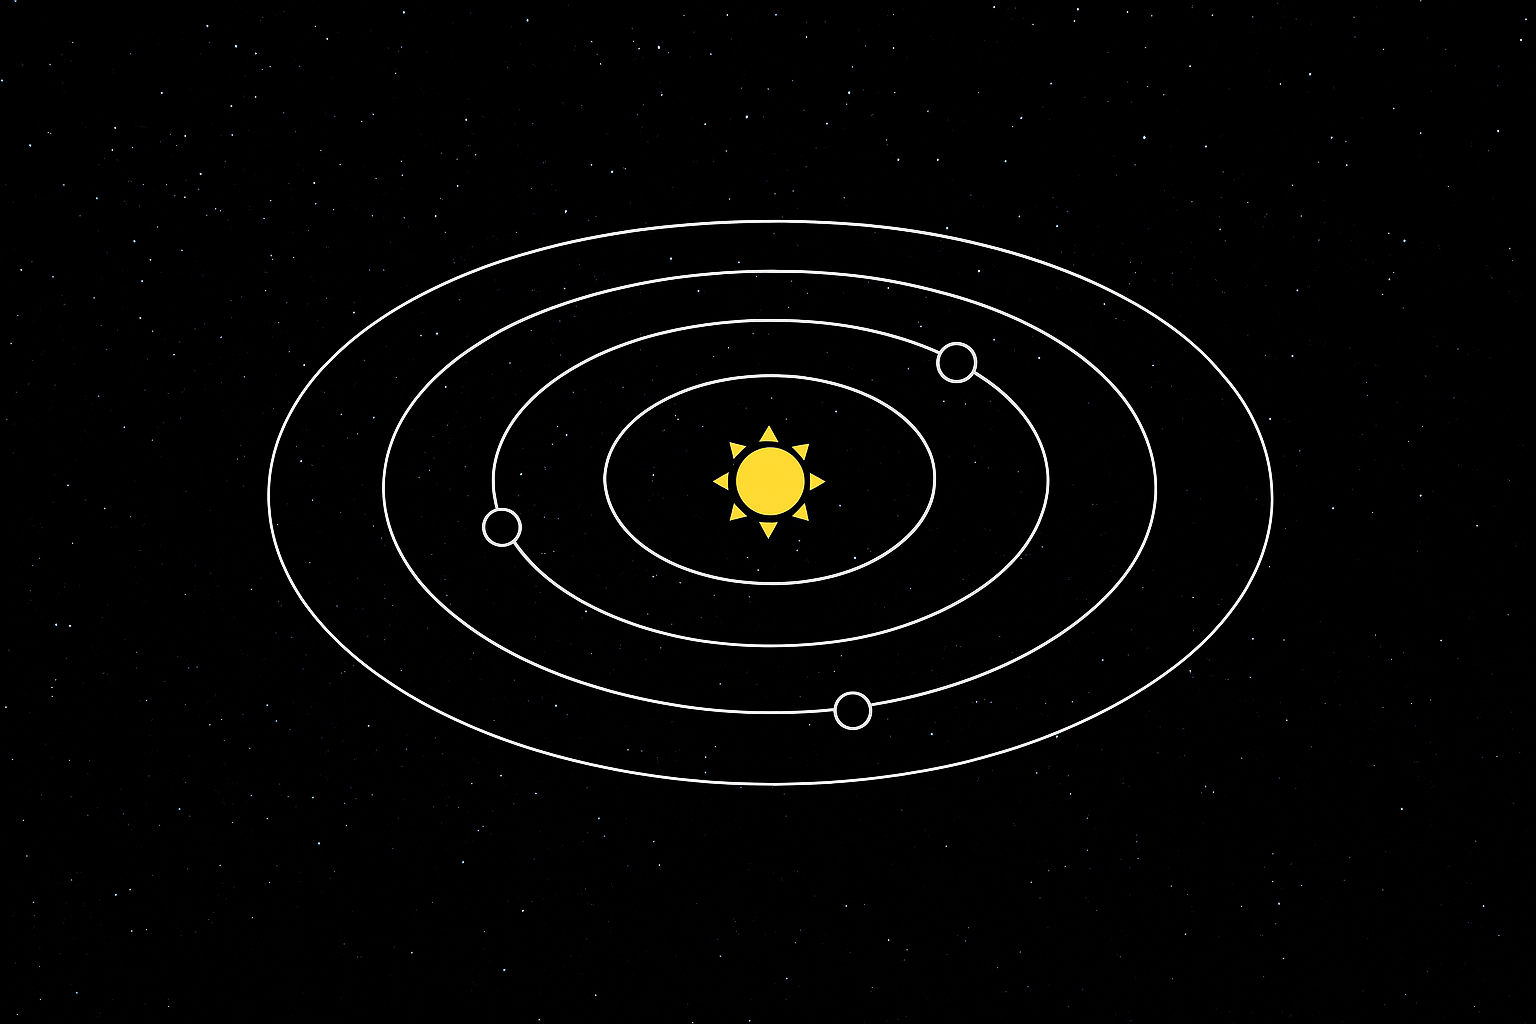
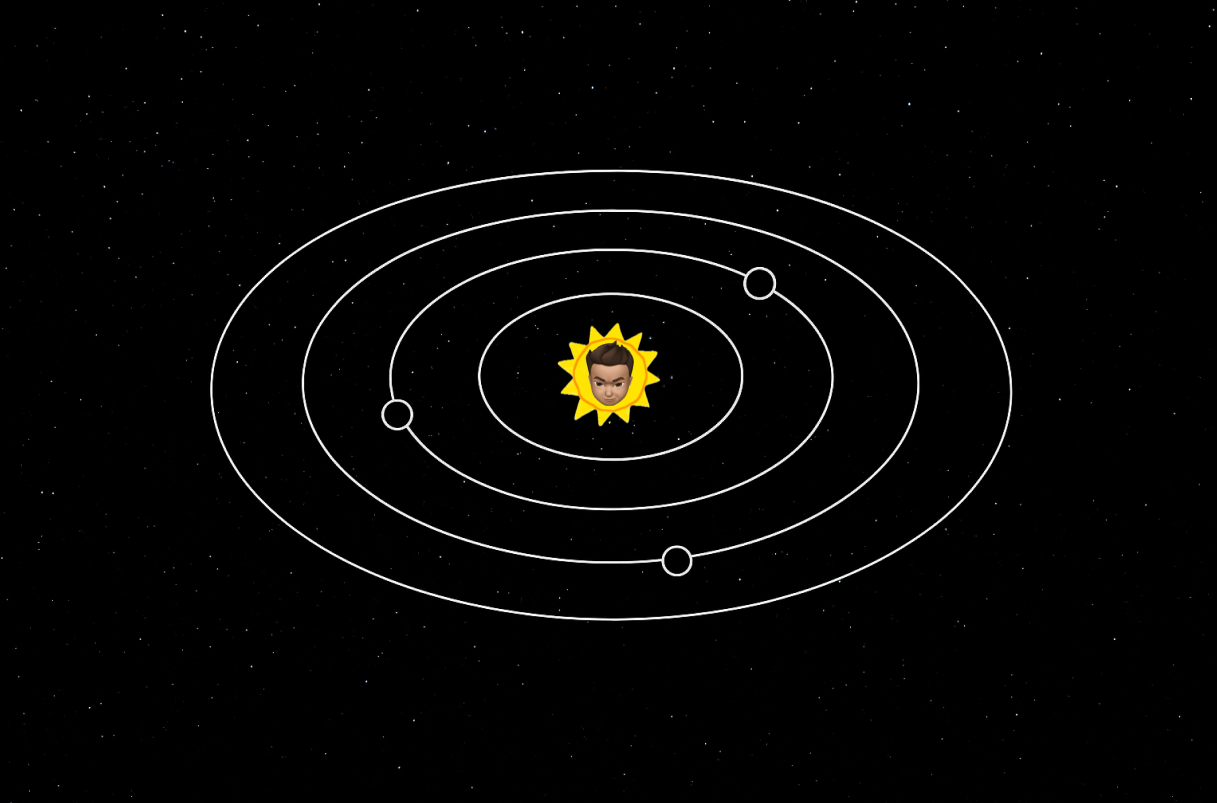
최종 ui 수정

diff --git a/src/utils/api.js b/src/utils/api.js
@@ -1,0 +1,38 @@
+// src/utils/api.js
+
+const API_BASE_URL = 'http://localhost:8080'; // 백엔드 주소
+
+const getAuthToken = () => localStorage.getItem('token');
+
+const apiRequest = async (endpoint, method = 'GET', body = null) => {
+  const token = getAuthToken();
+  const headers = {
+    'Content-Type': 'application/json',
+    ...(token && { Authorization: `Bearer ${token}` }),
+  };
+
+  const config = {
+    method,
+    headers,
+    ...(body && { body: JSON.stringify(body) }),
+  };
+
+  const response = await fetch(`${API_BASE_URL}${endpoint}`, config);
+  if (!response.ok) {
+    const errorData = await response.json().catch(() => ({}));
+    throw new Error(errorData.message || 'API 요청 실패');
+  }
+  return response.json();
+};
+
+// ✅ CRUD + 행성 관련 API
+export const createLetter = (letterData) => apiRequest('/letter', 'POST', letterData);
+export const getLetter = (id) => apiRequest(`/letter/${id}`);
+export const updateLetter = (id, letterData) => apiRequest(`/letter/${id}`, 'PUT', letterData);
+export const deleteLetter = (id) => apiRequest(`/letter/${id}`, 'DELETE');
+
+export const getPlanets = (page = 0, size = 15) =>
+  apiRequest(`/planet/main?page=${page}&size=${size}`);
+
+export const choosePlanet = (letterId, planetUrl) =>
+  apiRequest(`/planet/${letterId}`, 'PUT', { planetUrl });
